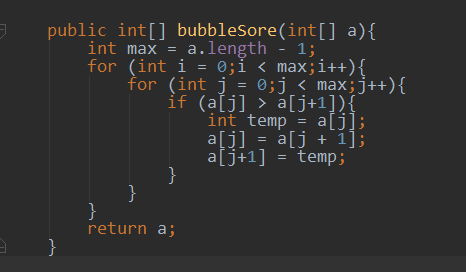
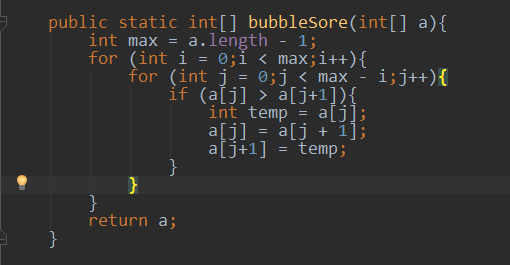
选择排序

diff --git a/app/src/main/java/com/nfrc/javasort/MainActivity.java b/app/src/main/java/com/nfrc/javasort/MainActivity.java
@@ -17,16 +17,16 @@ public class MainActivity extends AppCompatActivity {
         setContentView(R.layout.activity_main);
 
 
-        int[] a = {15000,21,0,3,9,5,1,2,10,100,30,55};
+        int[] a = {15000,21,0,3,9,5,1,2,10,100,30,55,900,11,1000000000,845,123456,98754};
 
 
-//        int[]b = BubbleSort.bubbleSore(a);        //冒泡法
+        int[]b = BubbleSort.bubbleSore(a);        //冒泡法
 
 
 
 //        int[]b = InsertionSort.insertSort(a);       //插入法
 
-        int[]b = SelectionSort.selectSort(a);       //选着排序法
+//        int[]b = SelectionSort.selectSort(a);       //选着排序法
 
 
         for (int i = 0;i < b.length;i++){
@@ -35,4 +35,21 @@ public class MainActivity extends AppCompatActivity {
 
 
     }
+
+    void bubblesort(int arrayVal[],int length)
+    {
+        int i,j;
+        int temp;
+
+        for(i=0;i<length-1;i++)
+            for(j=i+1;j<length;j++)
+                if(arrayVal[i]>arrayVal[j])
+                {
+                    //置换位置
+                    temp=arrayVal[i];
+                    arrayVal[i]=arrayVal[j];
+                    arrayVal[j]=temp;
+                }
+    }
+
 }

diff --git a/app/src/main/java/com/nfrc/javasort/BubbleSort/BubbleSort.java b/app/src/main/java/com/nfrc/javasort/BubbleSort/BubbleSort.java
@@ -6,11 +6,10 @@ package com.nfrc.javasort.BubbleSort;
 
 public class BubbleSort {
 
-
     public static int[] bubbleSore(int[] a){
         int max = a.length - 1;
         for (int i = 0;i < max;i++){
-            for (int j = 0;j < max;j++){
+            for (int j = 0;j < max - i;j++){
                 if (a[j] > a[j+1]){
                     int temp = a[j];
                     a[j] = a[j + 1];
@@ -20,6 +19,5 @@ public class BubbleSort {
         }
         return a;
     }
-
 
 }
